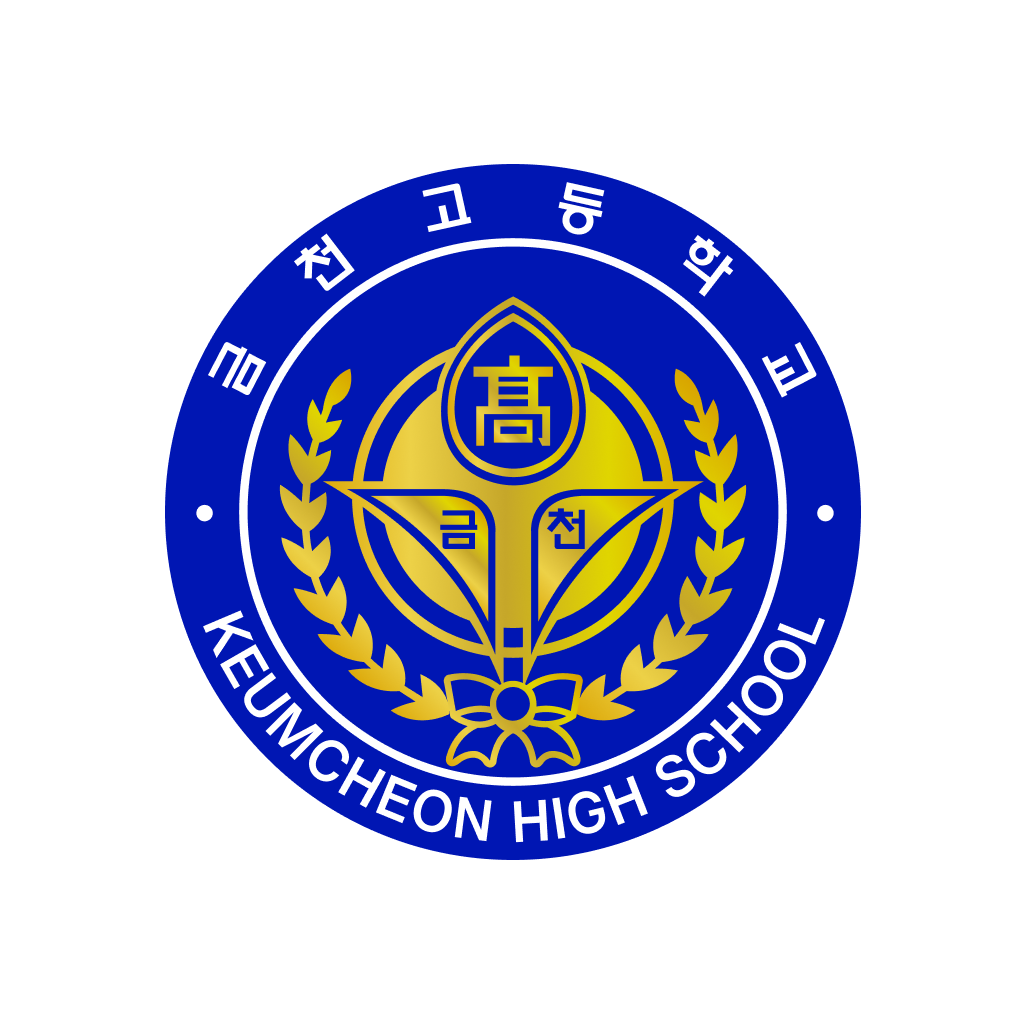
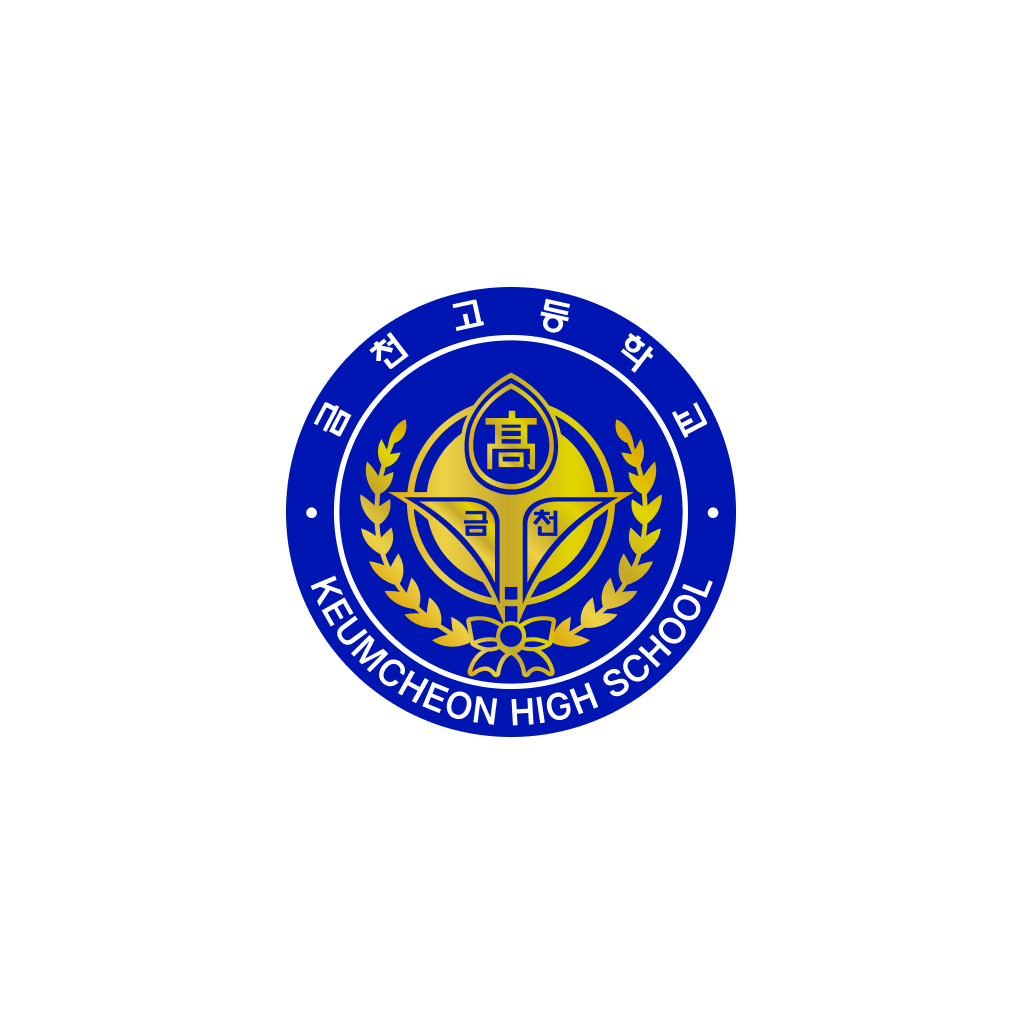
바코드 스캔기능 추가 및 스플래시, 어댑티브 아이콘 변경, For v.1.0.6

Changed region(s): [[0.1562, 0.1562, 0.8438, 0.8438]]

diff --git a/src/screens/main/Home/StudentID.jsx b/src/screens/main/Home/StudentID.jsx
@@ -16,22 +16,63 @@ import { Ionicons } from "@expo/vector-icons";
 import { useMutation, useQuery, useQueryClient } from "react-query";
 import {
   getUserInfo,
+  postRegisterBarCode,
   postRegisterPhoto,
 } from "../../../../apis/home/studentID";
 import * as ImagePicker from "expo-image-picker";
 import mime from "mime";
-import FullScreenLoader from "../../../components/common/FullScreenLoader";
+
+import { BarCodeScanner } from "expo-barcode-scanner";
+import * as Haptics from "expo-haptics";
+
+import { Dimensions } from "react-native";
+import Barcode from "@kichiyaki/react-native-barcode-generator";
+
+const SCREEN_WIDTH = Dimensions.get("window").width;
 
 export default function StudentIDScreen({ navigation }) {
   const { user } = useContext(UserContext);
+  const queryClient = useQueryClient();
   const { data: userData } = useQuery("userData", getUserInfo);
+  const { mutate: registerBarcodeMutate } = useMutation(postRegisterBarCode);
+
+  const [hasPermission, setHasPermission] = useState(null);
+  const [barCodeScannerOpen, setBarCodeScannerOpen] = useState(false);
 
   useEffect(() => {
     if (user.grade === "teacher") {
       alert("선생님께서는 학생증 서비스를 이용하실 수 없습니다.");
       navigation.goBack();
     }
+    // 마운트시 바코드 스캐너 카메라 권한 요청
+    requestBarCodeScannerPermissions();
   });
+
+  const requestBarCodeScannerPermissions = async () => {
+    const { status } = await BarCodeScanner.requestPermissionsAsync();
+    setHasPermission(status === "granted");
+  };
+
+  const openBarCodeScanner = () => {
+    if (hasPermission) {
+      setBarCodeScannerOpen(true);
+    } else {
+      alert(
+        "카메라 권한이 허용되지 않아서 바코드를 스캔할 수 없어요! 설정에서 카메라 권한을 허용해 주세요."
+      );
+    }
+  };
+
+  const handleBarCodeScanned = async ({ type, data }) => {
+    setBarCodeScannerOpen(false);
+    await Haptics.notificationAsync(Haptics.NotificationFeedbackType.Success);
+    registerBarcodeMutate(data, {
+      onSuccess: () => {
+        queryClient.invalidateQueries("userData");
+        alert("바코드 등록을 성공하였습니다!");
+      },
+    });
+  };
 
   const styles = StyleSheet.create({
     container: { flex: 1 },
@@ -84,15 +125,21 @@ export default function StudentIDScreen({ navigation }) {
       fontSize: 14,
       fontWeight: "600",
     },
+
     logo_row: {
-      justifyContent: "center",
+      alignItems: "center",
       paddingVertical: 10,
     },
-    logo: { height: 40, marginVertical: 10 },
+    logo: { height: 45, width: 200, marginVertical: 10 },
   });
   return (
     <SafeAreaView style={styles.container} edges={["top"]}>
       <OnlyLeftArrowHeader navigation={navigation} />
+      <WrapBarCodeScanner
+        barCodeScannerOpen={barCodeScannerOpen}
+        handleBarCodeScanned={handleBarCodeScanned}
+        setBarCodeScannerOpen={setBarCodeScannerOpen}
+      />
 
       <ScrollView style={styles.card_wrap}>
         <View style={styles.card}>
@@ -129,16 +176,27 @@ export default function StudentIDScreen({ navigation }) {
               <Text style={styles.info_text}>{user.number}번</Text>
             </View>
             <View style={styles.info_row}>
-              <Text style={styles.info_title}>유효기간</Text>
+              <Text
+                style={styles.info_title}
+                onPress={() => {
+                  openBarCodeScanner();
+                }}
+              >
+                유효기간
+              </Text>
               <Text style={styles.info_text}>
                 {moment().add("1", "y").format("YYYY") + "-03-01"}
               </Text>
             </View>
+            <BarCodeSection
+              userData={userData}
+              openBarCodeScanner={openBarCodeScanner}
+            />
             <View style={styles.logo_row}>
               <Image
                 resizeMode={"contain"}
                 style={styles.logo}
-                source={{ uri: "https://static.kch-app.me/logo_title.jpeg" }}
+                source={require("../../../../assets/images/logo_title.jpeg")}
               />
             </View>
           </View>
@@ -227,17 +285,7 @@ function Photo({ userData }) {
 
   // userData === undefinded 일때 처리
   if (!userData) {
-    return (
-      <View style={styles.container}>
-        <TouchableOpacity
-          style={styles.dummy_image}
-          onPress={handleImagePicking}
-        >
-          <Ionicons name="camera" size={30} color="gray" />
-          <Text style={styles.dummy_desc}>사진을 등록해주세요</Text>
-        </TouchableOpacity>
-      </View>
-    );
+    return null;
   }
 
   return (
@@ -257,4 +305,124 @@ function Photo({ userData }) {
       )}
     </View>
   );
+}
+
+function BarCodeSection({ userData, openBarCodeScanner }) {
+  const styles = StyleSheet.create({
+    barcode: { marginTop: 20 },
+    text: { fontSize: 10 },
+
+    dummy_barcode_container: { alignItems: "center" },
+    dummy_barcode: {
+      height: 55,
+      width: 150,
+      borderRadius: 5,
+      backgroundColor: "#f4f4f4",
+      marginTop: 10,
+      justifyContent: "space-between",
+      alignItems: "center",
+      paddingVertical: 6,
+    },
+    dummy_text: { fontSize: 10, color: "gray" },
+  });
+  if (!userData) {
+    return null;
+  }
+
+  if (userData.barcode) {
+    return (
+      <Barcode
+        style={styles.barcode}
+        value={userData.barcode}
+        text={userData.barcode}
+        textStyle={styles.text}
+        format={"CODE39"}
+        height={40}
+        width={1.2}
+      />
+    );
+  }
+
+  if (!userData.barcode || userData.barcode === "") {
+    return (
+      <View style={styles.dummy_barcode_container}>
+        <TouchableOpacity
+          style={styles.dummy_barcode}
+          onPress={() => {
+            openBarCodeScanner();
+          }}
+        >
+          <Ionicons name="barcode" size={24} color="gray" />
+          <Text style={styles.dummy_text}>바코드를 등록해주세요</Text>
+        </TouchableOpacity>
+      </View>
+    );
+  }
+}
+
+function WrapBarCodeScanner({
+  barCodeScannerOpen,
+  setBarCodeScannerOpen,
+  handleBarCodeScanned,
+}) {
+  const styles = StyleSheet.create({
+    toast: {
+      position: "absolute",
+      top: 100,
+      left: SCREEN_WIDTH / 2 - 130,
+      width: 260,
+      height: 40,
+      backgroundColor: "rgba(244,244,244,0.3)",
+      borderRadius: 8,
+      zIndex: 15,
+      flexDirection: "row",
+      justifyContent: "center",
+      alignItems: "center",
+    },
+    toast_text: {
+      color: "white",
+      marginLeft: 8,
+      fontWeight: "700",
+    },
+    close_button: {
+      position: "absolute",
+      bottom: 150,
+      left: SCREEN_WIDTH / 2 - 30,
+      width: 60,
+      height: 60,
+      backgroundColor: "rgba(255,255,255,0.8)",
+      borderRadius: 30,
+      zIndex: 15,
+      justifyContent: "center",
+      alignItems: "center",
+    },
+  });
+
+  if (barCodeScannerOpen) {
+    return (
+      <>
+        <View style={styles.toast}>
+          <Ionicons name="alert-circle" size={24} color="white" />
+          <Text style={styles.toast_text}>
+            학생증 뒷면의 바코드를 스캔해주세요 !
+          </Text>
+        </View>
+
+        <TouchableOpacity
+          style={styles.close_button}
+          onPress={() => {
+            setBarCodeScannerOpen(false);
+          }}
+        >
+          <Ionicons name="close" size={32} color="#a4a4a4" />
+        </TouchableOpacity>
+
+        <BarCodeScanner
+          barCodeTypes={[BarCodeScanner.Constants.BarCodeType.code39]}
+          onBarCodeScanned={handleBarCodeScanned}
+          style={{ ...StyleSheet.absoluteFillObject, zIndex: 10 }}
+        />
+      </>
+    );
+  }
 }

diff --git a/src/screens/main/More/More.jsx b/src/screens/main/More/More.jsx
@@ -127,19 +127,19 @@ export default function MoreScreen({ navigation }) {
           </View>
 
           <View style={styles.button_box}>
-            <TouchableOpacity
-              style={styles.button}
-              onPress={() => {
-                alert("개발 중 입니다......");
-              }}
-            >
-              <Ionicons
-                name="md-notifications-outline"
-                size={24}
-                color="#334155"
-              />
-              <Text style={[styles.button_text]}>알림 설정</Text>
-            </TouchableOpacity>
+            {/*<TouchableOpacity*/}
+            {/*  style={styles.button}*/}
+            {/*  onPress={() => {*/}
+            {/*    alert("개발 중 입니다......");*/}
+            {/*  }}*/}
+            {/*>*/}
+            {/*  <Ionicons*/}
+            {/*    name="md-notifications-outline"*/}
+            {/*    size={24}*/}
+            {/*    color="#334155"*/}
+            {/*  />*/}
+            {/*  <Text style={[styles.button_text]}>알림 설정</Text>*/}
+            {/*</TouchableOpacity>*/}
             <TouchableOpacity
               style={styles.button}
               onPress={() => {

diff --git a/app.config.js b/app.config.js
@@ -31,6 +31,10 @@ module.exports = {
     ios: {
       bundleIdentifier: "me.kch-app.kch",
       supportsTablet: true,
+      infoPlist: {
+        NSCameraUsageDescription:
+          "금천고등학교 앱은 학생증의 바코드를 스캔하기 위하여 카메라 권한이 필요합니다.",
+      },
     },
     android: {
       versionCode: 4,

diff --git a/apis/home/studentID.js b/apis/home/studentID.js
@@ -12,3 +12,11 @@ export const postRegisterPhoto = async (formData) => {
 
   return data;
 };
+
+export const postRegisterBarCode = async (_barcode) => {
+  const { data } = await apiAuthInstance.post("/user/register/barcode", {
+    barcode: _barcode,
+  });
+
+  return data;
+};
